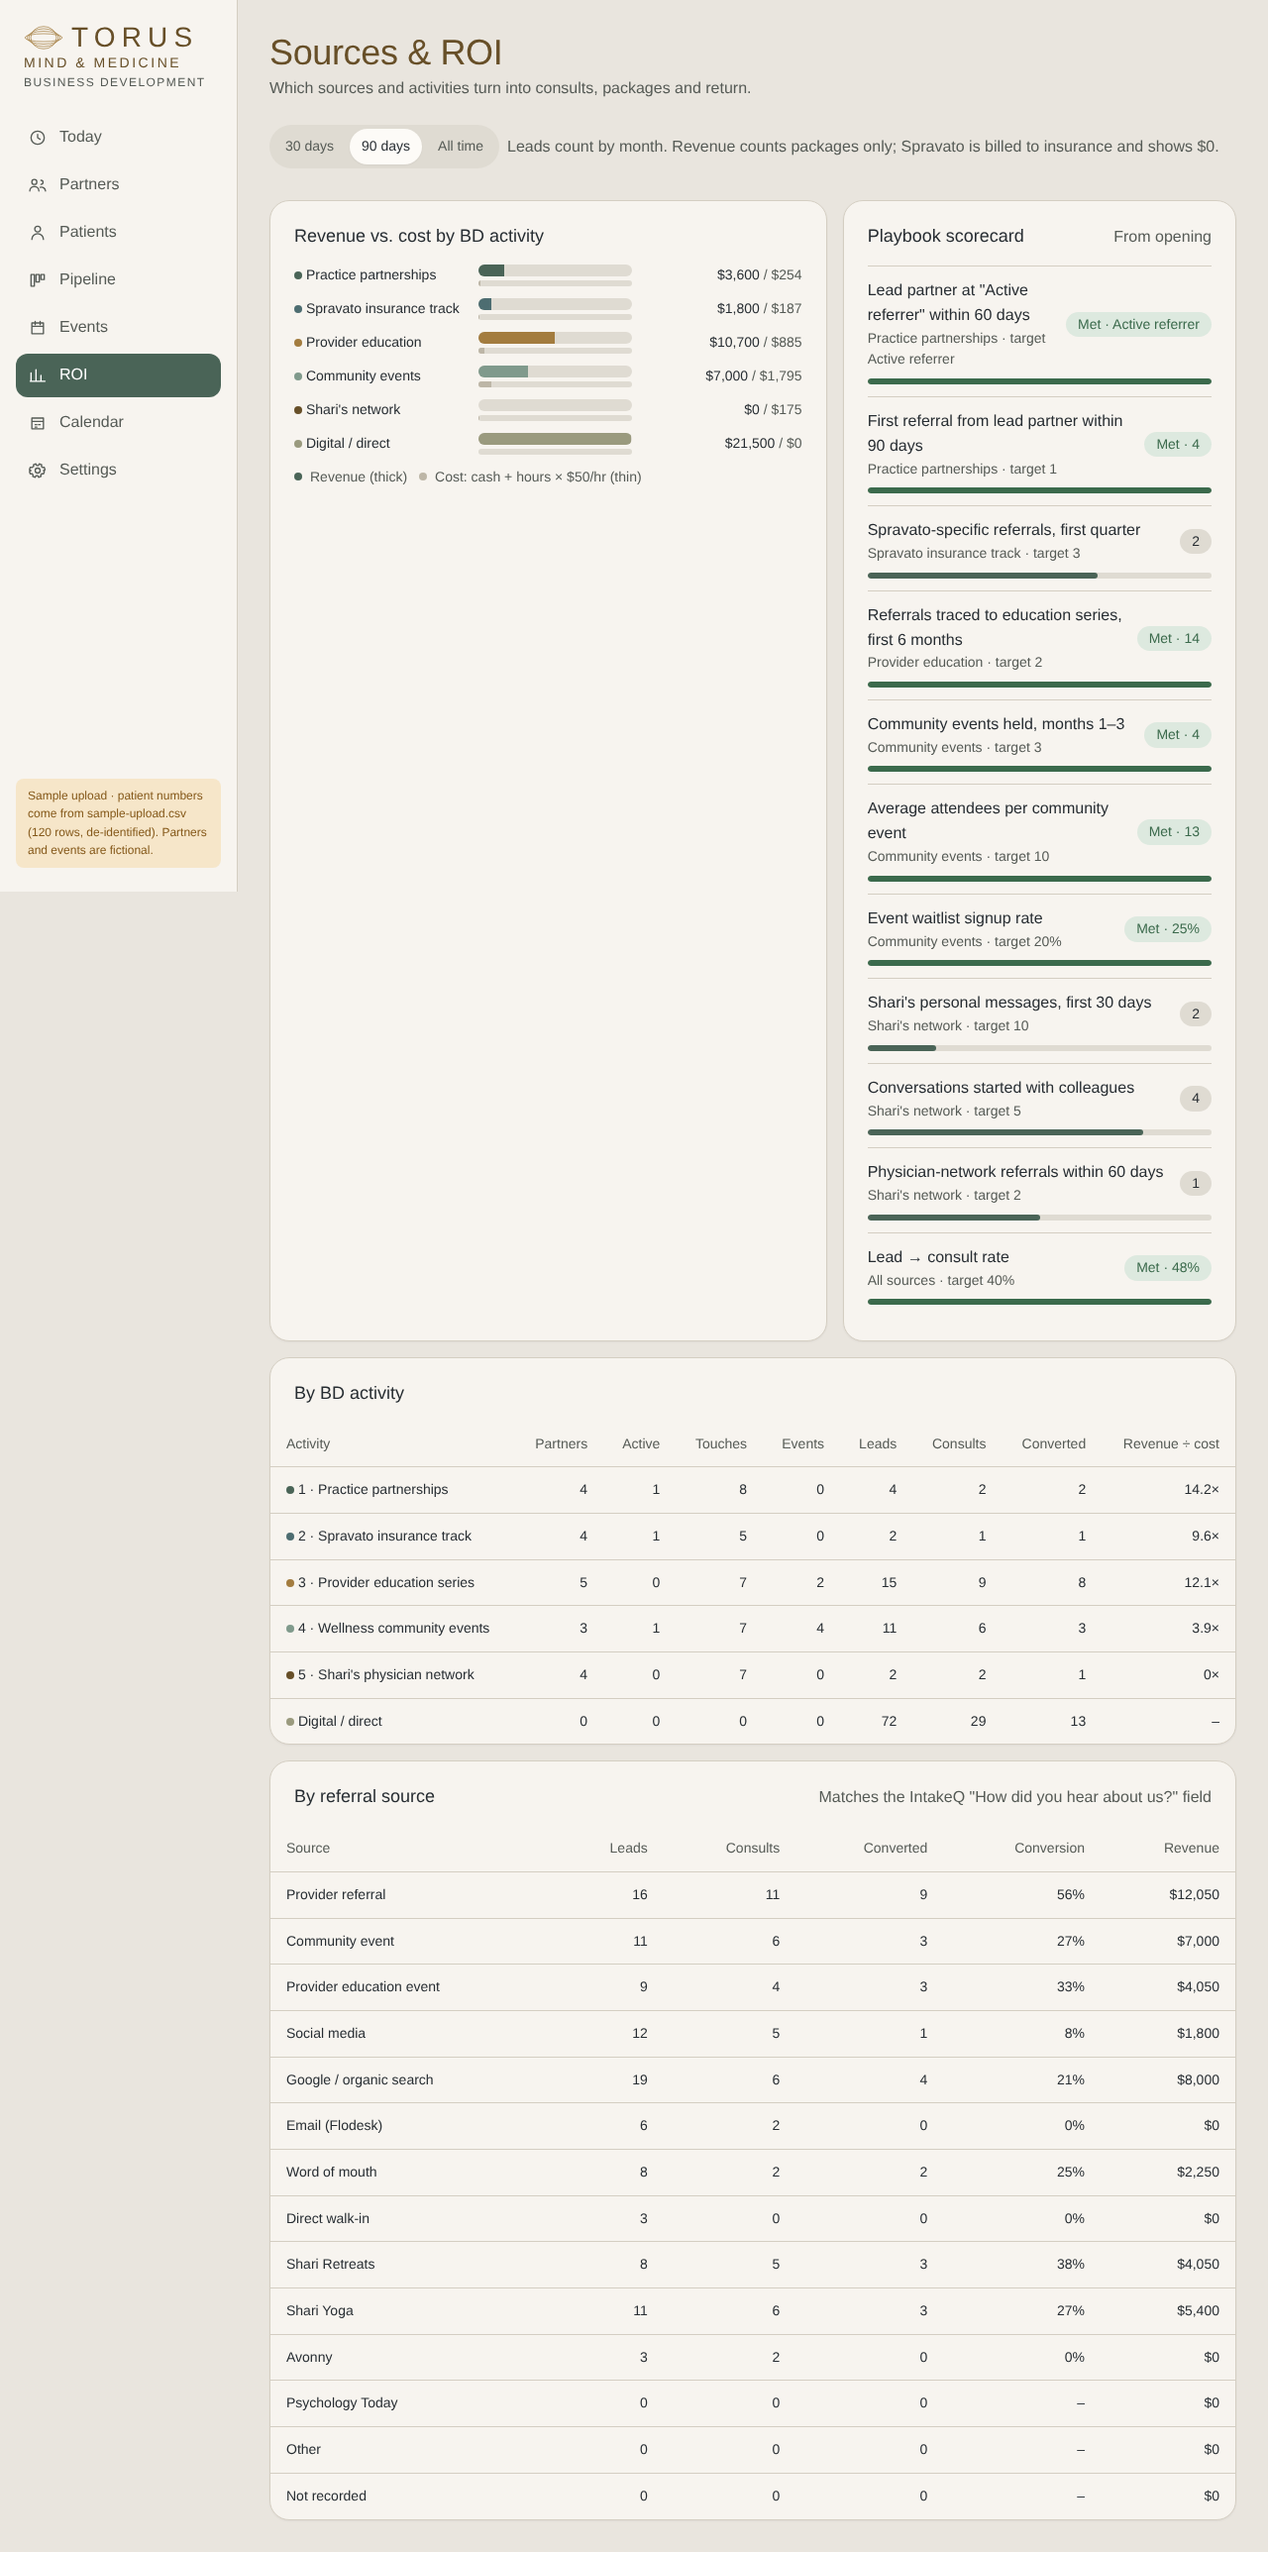
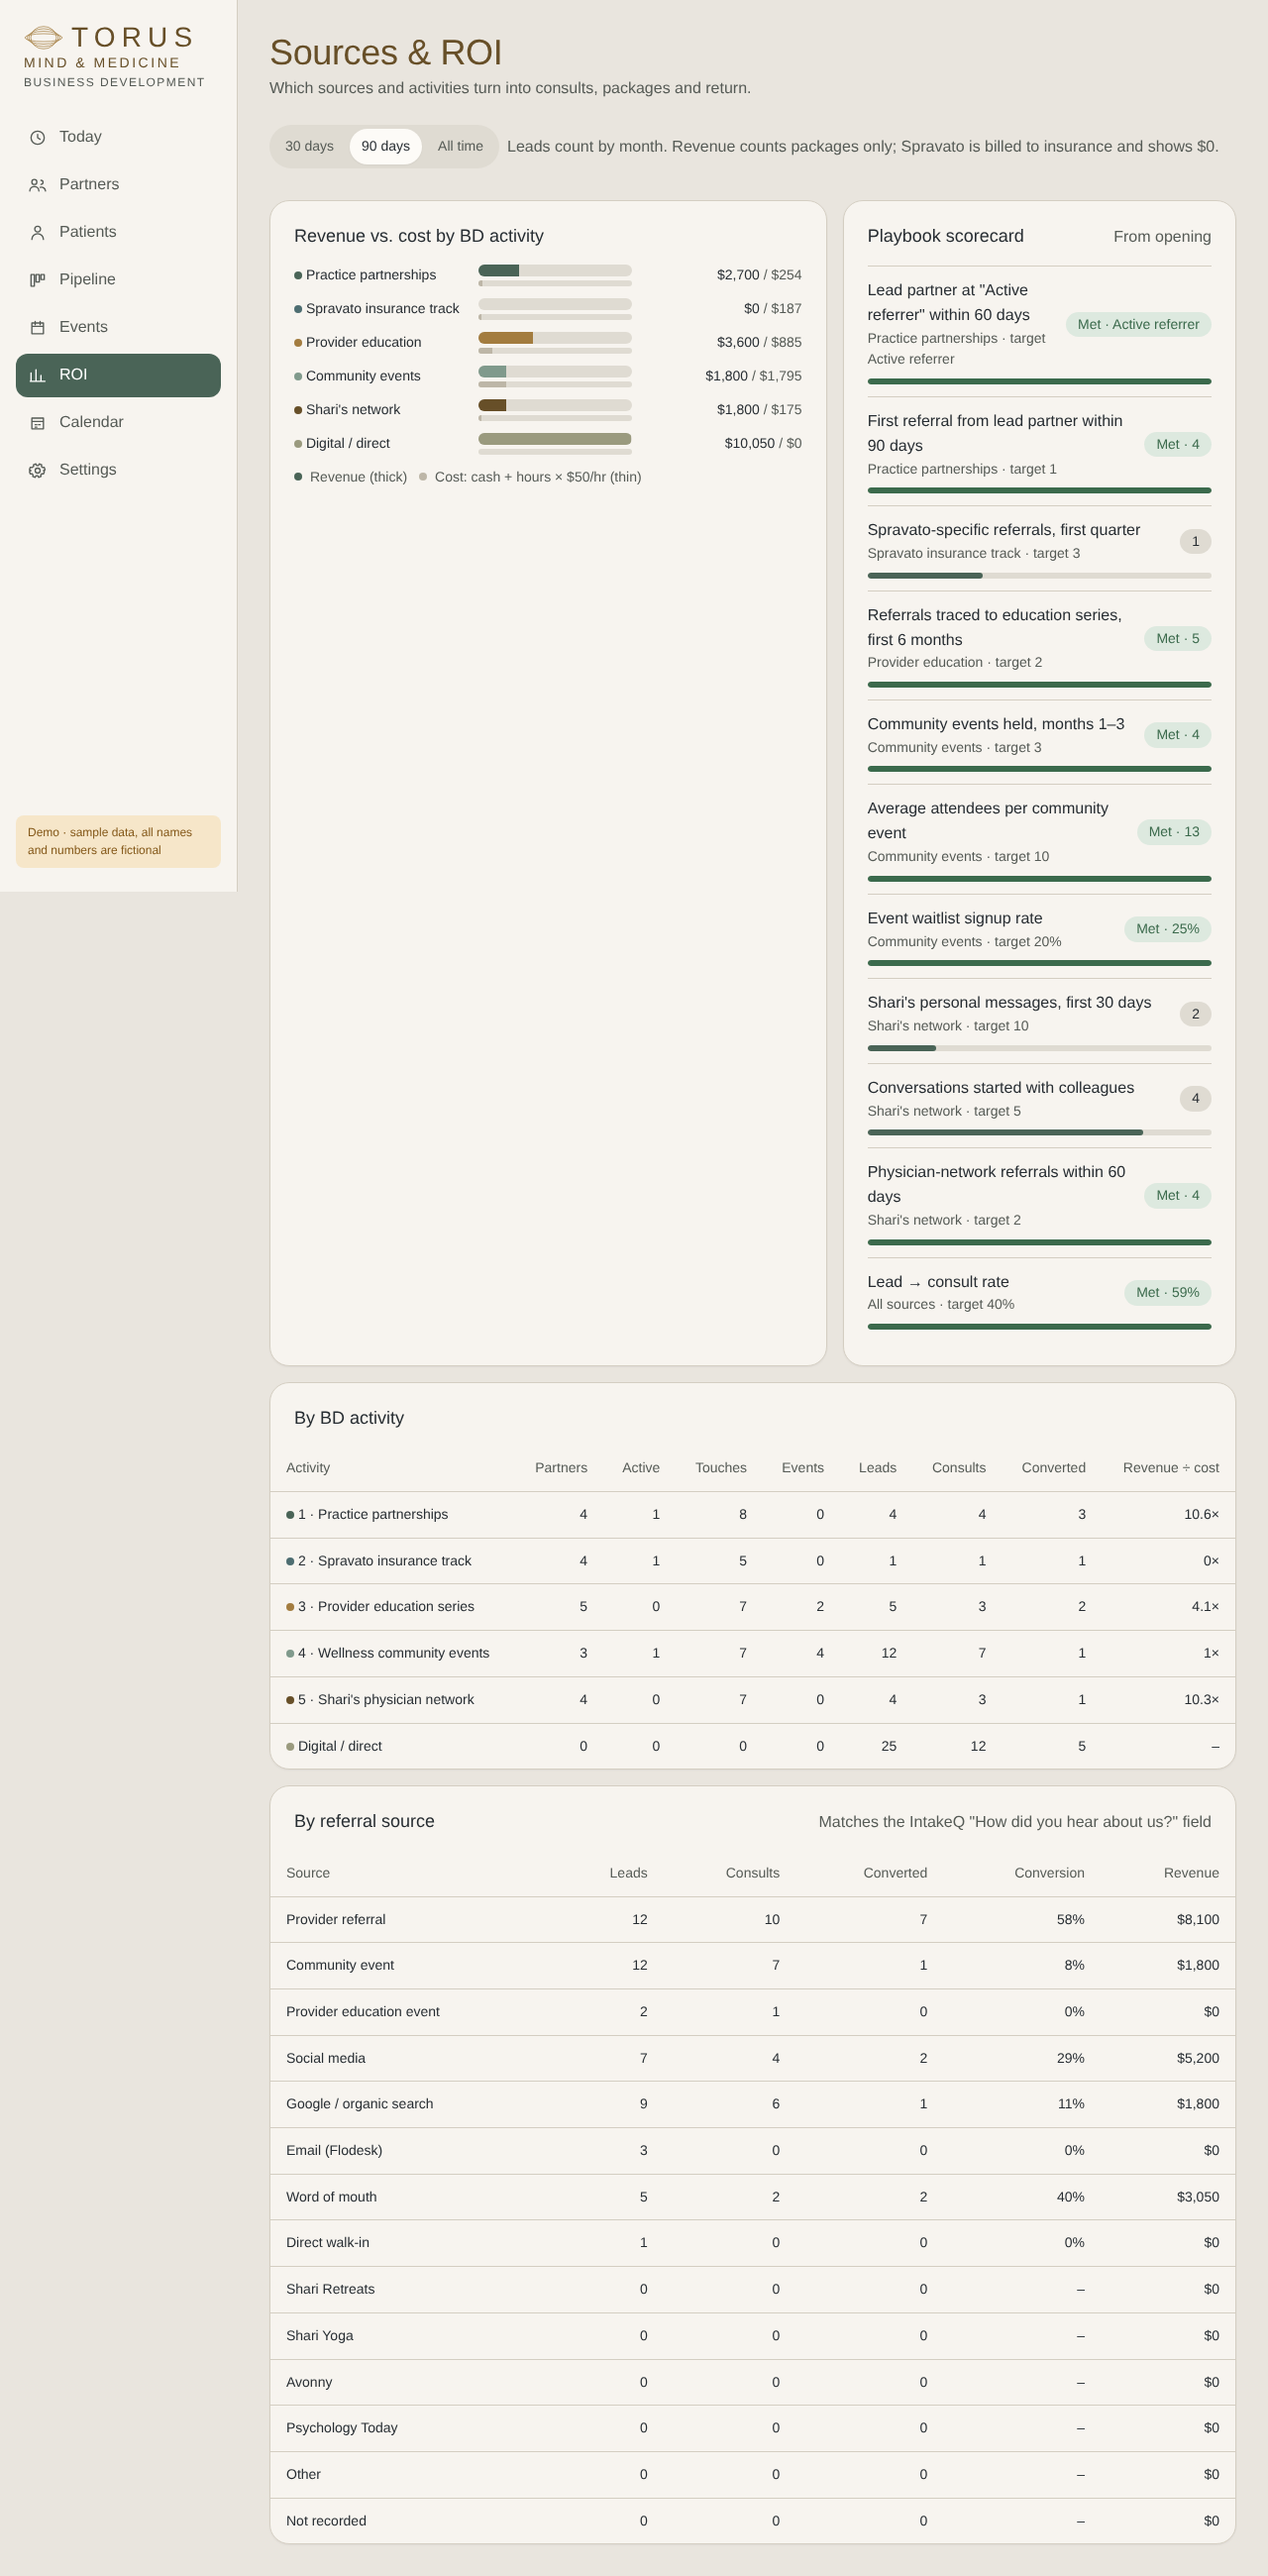
Main shows Torus data; demo data kept on demo-backup
- demo/torus-demo.json: Torus's monthly patient counts from the Nov 17 IntakeQ
  export (counts only, no patient details) and the 13 playbook partners.
  scripts/write-config.mjs loads it in demo mode; live mode ignores it.
- Brings in the sample-upload import improvements.
- Tests pin themselves to the built-in sample data.
- demo-backup branch = the previous main with fictional demo data.

Claude-Session: https://claude.ai/code/session_016Broc13AmVu7DcJiKXFPp3

diff --git a/dashboard/config.js b/dashboard/config.js
@@ -1,3 +1,3 @@
 /* Generated at deploy time. DEMO: sample data. */
 window.TORUS_CONFIG = null;
-window.TORUS_DEMO = {"csv":"sample-upload.csv"};
+window.TORUS_DEMO = {"blank":true,"openDate":"2026-09-09","partners":[{"id":"P-001","contact":"Dr. Patrick Nolan (CMO)","org":"Relive Health Stuart","type":"Clinical referrer","activity":"A1","spec":"HRT / cash-pay wellness","city":"Stuart","status":"Cold","owner":"Shari","nextStep":"20-min in-person meeting; co-produce HRT–ketamine one-pager"},{"id":"P-002","contact":"Ketamine / pain specialist (TBD)","org":"Pioneer Pain Management","type":"Clinical referrer","activity":"A1","spec":"Pain management","city":"Port St. Lucie","status":"Cold","owner":"Kim","nextStep":"Partnership intro + education series invite"},{"id":"P-003","contact":"Dr. Giovanni Campanile","org":"Coraeon Functional Medicine","type":"Clinical referrer","activity":"A3","spec":"Functional medicine","city":"Stuart / Jensen Beach","status":"Cold","owner":"Kim","nextStep":"Invite to first lunch-and-learn"},{"id":"P-004","contact":"TBD","org":"Back in Action Medical / Best Life Primary Care","type":"Clinical referrer","activity":"A3","spec":"Primary care","city":"Palm City / PSL","status":"Cold","owner":"Kim","nextStep":"Invite to first lunch-and-learn"},{"id":"P-005","contact":"TBD","org":"OB-GYN practice #1","type":"Clinical referrer","activity":"A3","spec":"OB-GYN","city":"Stuart","status":"Cold","owner":"Kim","nextStep":"Perimenopause–mood brief"},{"id":"P-006","contact":"TBD","org":"OB-GYN practice #2","type":"Clinical referrer","activity":"A3","spec":"OB-GYN","city":"Palm City","status":"Cold","owner":"Kim","nextStep":"Perimenopause–mood brief"},{"id":"P-007","contact":"First-responder providers","org":"PSL Health Center","type":"Clinical referrer","activity":"A3","spec":"Primary care","city":"Port St. Lucie","status":"Cold","owner":"Kim","nextStep":"Invite to first lunch-and-learn"},{"id":"P-008","contact":"Arienne","org":"Kula Yoga Shala","type":"Community venue","activity":"A4","spec":"Yoga studio","city":"Jupiter","status":"Cold","owner":"Annette","nextStep":"Propose monthly co-hosted talk"},{"id":"P-009","contact":"TBD","org":"Bayan Soul Yoga Studio & Boutique","type":"Community venue","activity":"A4","spec":"Yoga studio","city":"Stuart","status":"Cold","owner":"Annette","nextStep":"Propose monthly co-hosted talk"},{"id":"P-010","contact":"TBD","org":"Breathe Salt & Yoga","type":"Community venue","activity":"A4","spec":"Yoga studio","city":"Jupiter","status":"Cold","owner":"Annette","nextStep":"Propose monthly co-hosted talk"},{"id":"P-011","contact":"Colleague (TBD)","org":"Palm Beach Gardens Medical Center","type":"Hospital colleague","activity":"A5","spec":"","city":"Palm Beach Gardens","status":"Cold","owner":"Shari","nextStep":"Personal note: 15-min catch-up"},{"id":"P-012","contact":"Colleague (TBD)","org":"Delray Medical Center","type":"Hospital colleague","activity":"A5","spec":"","city":"Delray Beach","status":"Cold","owner":"Shari","nextStep":"Personal note: 15-min catch-up"},{"id":"P-013","contact":"Colleague (TBD)","org":"Cleveland Clinic Florida","type":"Hospital colleague","activity":"A5","spec":"","city":"","status":"Cold","owner":"Shari","nextStep":"Personal note: 15-min catch-up"}],"counts":[{"month":"2026-09-01","via":"Not recorded","source":"Not recorded","leads":8},{"month":"2026-10-01","via":"Not recorded","source":"Not recorded","leads":2},{"month":"2026-10-01","via":"Not recorded","source":"Avonny","leads":1},{"month":"2026-10-01","via":"Not recorded","source":"Community event","leads":1},{"month":"2026-10-01","via":"Not recorded","source":"Psychology Today","leads":1},{"month":"2026-11-01","via":"Not recorded","source":"Not recorded","leads":2}],"label":"Torus IntakeQ export (Nov 17, 2026)","note":"Counts exclude clients who weren't business-development leads. The export has no consult, package or how-did-you-hear fields, so consults and conversions show 0 and most sources are 'Not recorded'.","footer":"Torus data · monthly patient counts from the Nov 17 IntakeQ export (no patient details); partners are the playbook targets."};

diff --git a/scripts/func.py b/scripts/func.py
@@ -11,6 +11,7 @@ async def main():
     async with async_playwright() as p:
         b = await p.chromium.launch(executable_path="/usr/bin/google-chrome")
         pg = await b.new_page(viewport={"width":1280,"height":900}); errs=[]
+        await pg.route("**/config.js", lambda r: r.fulfill(body="window.TORUS_CONFIG = null;", content_type="application/javascript"))  # tests use the built-in sample data
         pg.on("pageerror", lambda e: errs.append(str(e)))
         await pg.goto(B+"#partners")
         await pg.click("text=Add a partner"); await pg.click("text=Add partner")

diff --git a/scripts/shoot.py b/scripts/shoot.py
@@ -15,6 +15,7 @@ async def main():
         errs = []
         for w in (1280, 375):
             pg = await b.new_page(viewport={"width": w, "height": 900})
+            await pg.route("**/config.js", lambda r: r.fulfill(body="window.TORUS_CONFIG = null;", content_type="application/javascript"))  # tests use the built-in sample data
             pg.on("pageerror", lambda e, w=w: errs.append(f"[{w}] {e}"))
             pg.on("console", lambda m, w=w: m.type == "error" and "ERR_" not in m.text and errs.append(f"[{w}] {m.text}"))
             for r in routes:
